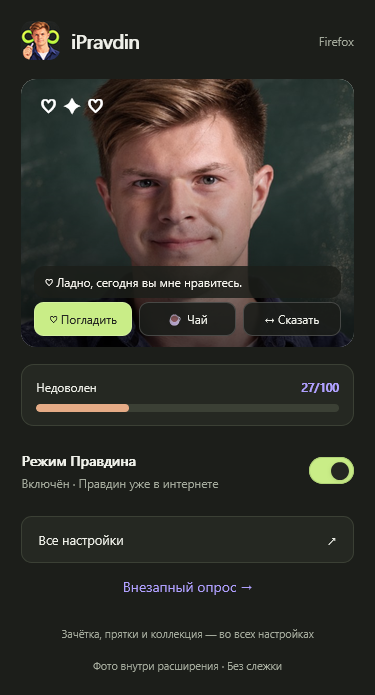
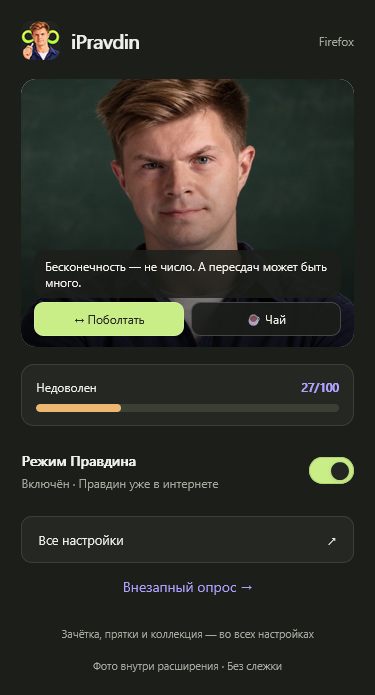
Replace pet action button with chat

diff --git a/app/ipravdin/options/popup.html b/app/ipravdin/options/popup.html
@@ -3,7 +3,7 @@
 <head><meta charset="utf-8"><meta name="viewport" content="width=device-width, initial-scale=1"><title>iPravdin</title><link rel="stylesheet" href="options.css"><script src="../settings.js" defer></script><script src="../game.js" defer></script><script src="options.js" defer></script><script src="companion.js" defer></script></head>
 <body class="popup"><main>
   <header class="header"><span class="brand"><img class="brand-icon" src="../icons/icon-48.png" alt=""> iPravdin</span><span class="edition">Firefox</span></header>
-  <div class="popup-portrait companion" data-companion><img class="companion-photo" src="../photos/portrait.jpg" alt="Правдин"><button class="companion-head" data-interact="pet" type="button" aria-label="Погладить Правдина по голове" title="Поводите курсором по голове">♡</button><span class="companion-spark" aria-hidden="true">♡ ✦ ♡</span><p class="companion-bubble" role="status">Добавим немного Правдина?</p><div class="companion-actions"><button data-interact="pet" type="button">♡ Погладить</button><button data-interact="tea" type="button">☕ Чай</button><button data-interact="talk" type="button">↔ Сказать</button></div></div>
+  <div class="popup-portrait companion" data-companion><img class="companion-photo" src="../photos/portrait.jpg" alt="Правдин"><button class="companion-head" data-interact="pet" type="button" aria-label="Погладить Правдина по голове" title="Поводите курсором по голове">♡</button><span class="companion-spark" aria-hidden="true">♡ ✦ ♡</span><p class="companion-bubble" role="status">Добавим немного Правдина?</p><div class="companion-actions"><button data-interact="talk" type="button">↔ Поболтать</button><button data-interact="tea" type="button">☕ Чай</button></div></div>
   <section class="mood-meter" data-mood-meter aria-label="Настроение Правдина"><div class="mood-heading"><span class="mood-label">Загружаем настроение…</span><strong class="mood-value">—/100</strong></div><div class="mood-track" role="progressbar" aria-label="Настроение Правдина" aria-valuemin="0" aria-valuemax="100" aria-valuenow="60"><div class="mood-fill"></div></div></section>
   <label class="setting"><span><strong>Режим Правдина</strong><small id="heroStatus">Загружаем…</small></span><input id="activate" class="toggle" type="checkbox" role="switch" disabled></label>
   <button id="openOptions" class="full-button" type="button">Все настройки <span aria-hidden="true">↗</span></button>

diff --git a/app/ipravdin/options/options.html b/app/ipravdin/options/options.html
@@ -6,7 +6,7 @@
     <header class="header"><a class="brand" href="options.html"><img class="brand-icon" src="../icons/icon-48.png" alt=""> iPravdin<span class="edition">для Firefox</span></a><span class="pill">Локально. Без слежки.</span></header>
     <section class="hero">
       <div class="hero-copy"><span class="eyebrow">ИНТЕРНЕТ С ХАРАКТЕРОМ</span><h1>Всё пройдёт.<br>Правдин <em>останется.</em></h1><p>Любимые сайты, неожиданные фотографии.<br>Добавьте немного Правдина в обычный день.</p><div class="hero-meta"><span class="status-dot"></span><span id="heroStatus">Загружаем настройки…</span></div></div>
-      <div class="portrait companion" data-companion><img class="companion-photo" src="../photos/portrait.jpg" alt="Правдин"><button class="companion-head" data-interact="pet" type="button" aria-label="Погладить Правдина по голове" title="Поводите курсором по голове">♡</button><span class="companion-spark" aria-hidden="true">♡ ✦ ♡</span><p class="companion-bubble" role="status">На случай, если интернету не хватает Правдина.</p><div class="companion-actions"><button data-interact="pet" type="button">♡ Погладить</button><button data-interact="tea" type="button">☕ Чай</button><button data-interact="talk" type="button">↔ Поговорить</button></div></div>
+      <div class="portrait companion" data-companion><img class="companion-photo" src="../photos/portrait.jpg" alt="Правдин"><button class="companion-head" data-interact="pet" type="button" aria-label="Погладить Правдина по голове" title="Поводите курсором по голове">♡</button><span class="companion-spark" aria-hidden="true">♡ ✦ ♡</span><p class="companion-bubble" role="status">На случай, если интернету не хватает Правдина.</p><div class="companion-actions"><button data-interact="talk" type="button">↔ Поболтать</button><button data-interact="tea" type="button">☕ Чай</button></div></div>
     </section>
     <section class="dashboard" aria-label="Настройки расширения">
       <div class="card controls"><div class="section-heading"><span class="eyebrow">01 / УПРАВЛЕНИЕ</span><h2>Настроение интернета</h2></div>
